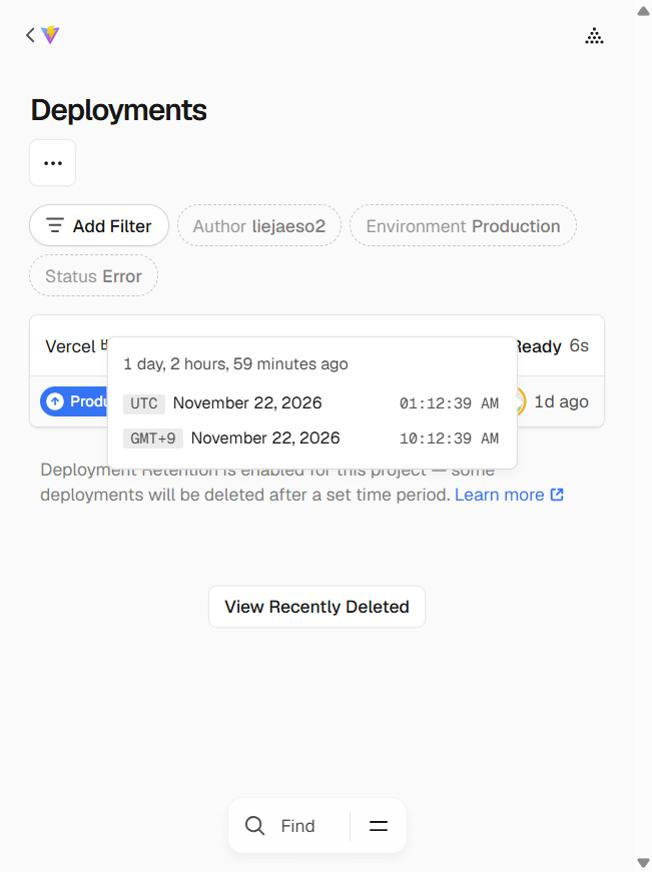
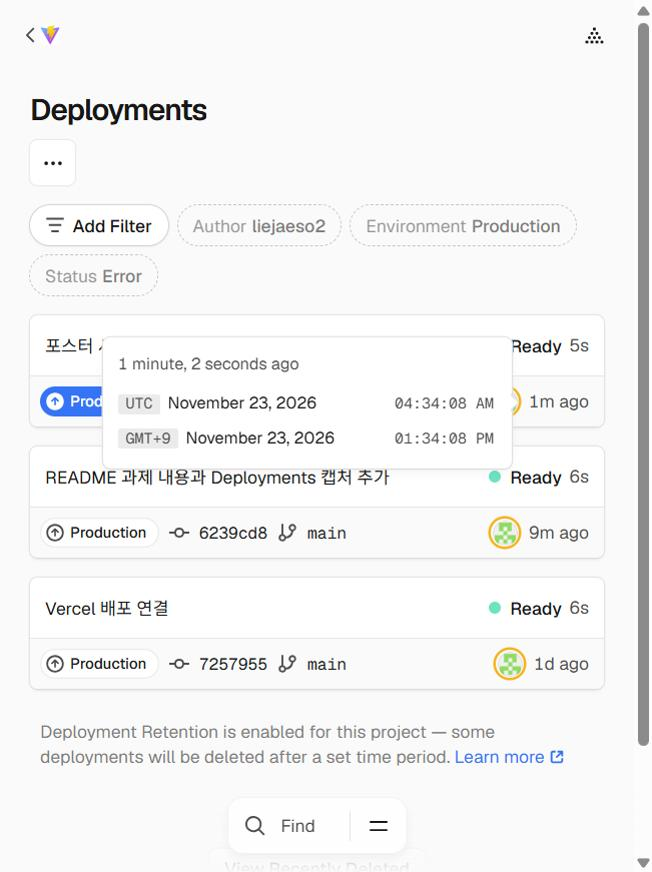
README에 다크모드 토글 화면과 Deployments 캡처 갱신

diff --git a/README.md b/README.md
@@ -1,9 +1,17 @@
 ## 과제 제출
 
 - 배포 주소: https://poster-card-wheat.vercel.app
-- 커스텀 기능: 다크모드 토글 (오른쪽 위 버튼으로 전환, 선택한 모드는 새로고침해도 유지, 처음엔 기기 설정을 따름)
+- 커스텀 기능: 다크모드 토글 (오른쪽 위 버튼으로 라이트·다크 전환, 선택한 모드는 새로고침해도 유지, 처음엔 기기 설정을 따름)
 
-![Vercel Deployments](deployments.jpg)
+| 라이트 모드 | 다크 모드 |
+| --- | --- |
+| ![라이트 모드](card-light.jpg) | ![다크 모드](card-dark.jpg) |
+
+### Vercel Deployments
+
+![Deployments 목록](deployments-list.jpg)
+
+![배포 날짜·시간](deployments.jpg)
 
 ---
 
